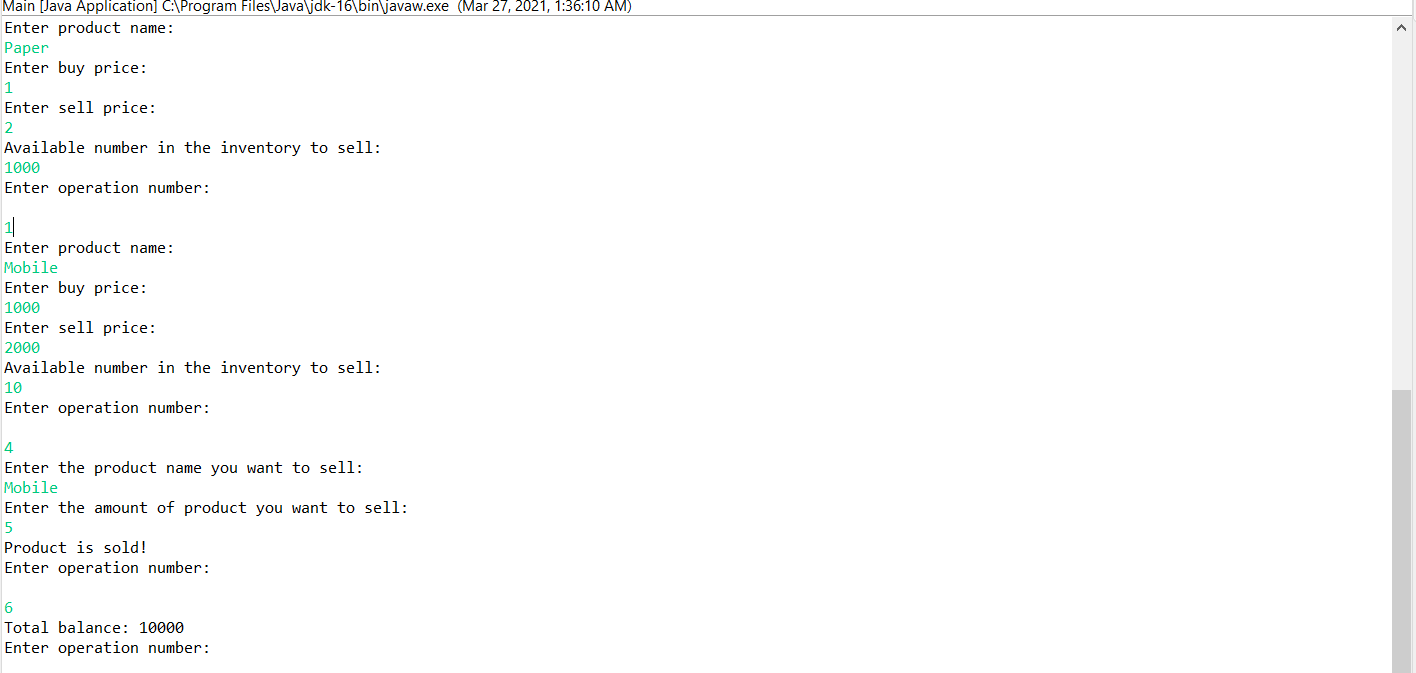
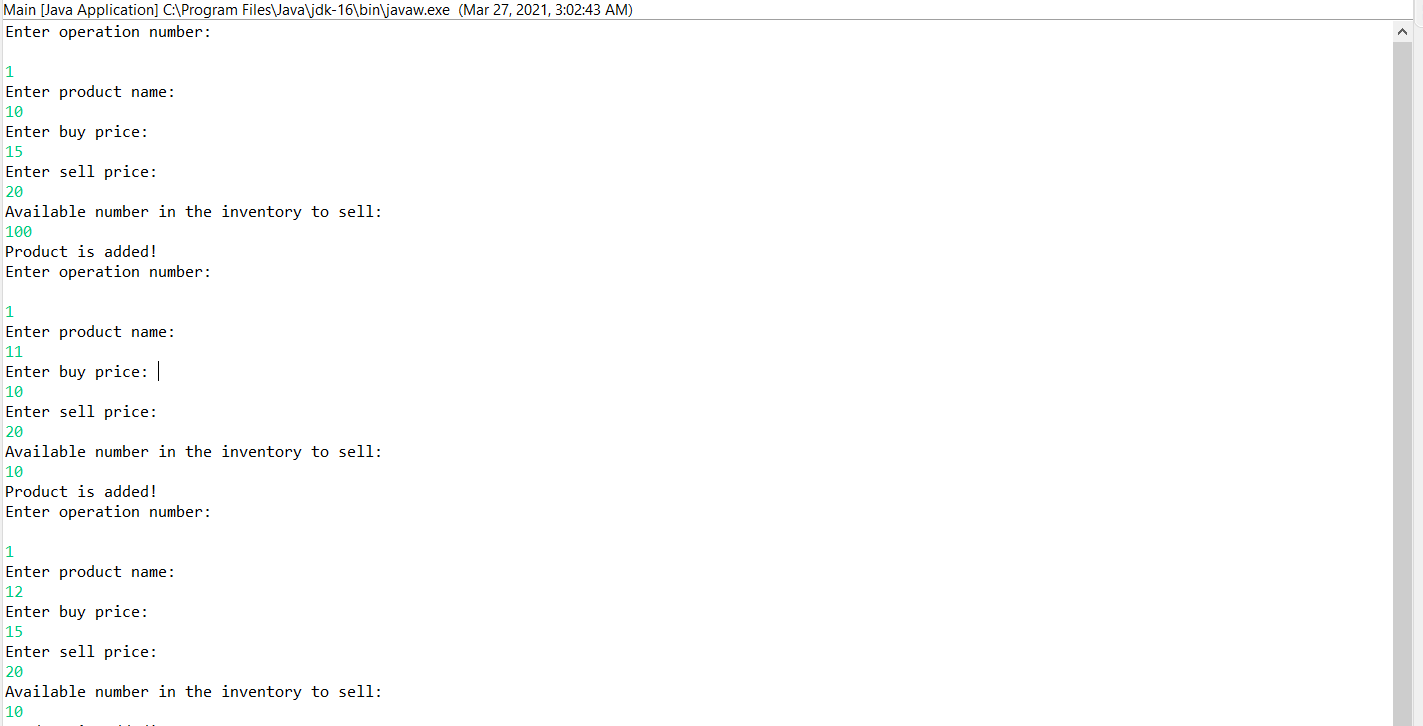
admin

Changed region(s): [[0.0, 0.0, 1.0, 1.0], [0.1554, 0.2184, 0.2486, 0.2496], [0.0621, 0.9985, 0.1243, 1.0]]

diff --git a/test/ProductList.java b/test/ProductList.java
@@ -10,7 +10,7 @@ public class ProductList {
 		products.clear();
 	}
 	
-	public void addProduct(String name, int buy, int sell, int availableNumber) {
+	public void addProduct(int name, int buy, int sell, int availableNumber) {
 		/// Adds new product to the product list
 		
 		Product newProduct = new Product(name, buy, sell, availableNumber);
@@ -31,19 +31,19 @@ public class ProductList {
 	}
 	*/
 	
-	public boolean searchProduct(String name) {
+	public boolean searchProduct(int name) {
 		/// check if a product already exists or not
 		
 		for(int i = 0 ; i < products.size(); ++i) {
 			Product p = products.get(i);
-			if(p.getProductName().equals(name)) {
+			if(p.getProductName() == name) {
 				return true;
 			}
 		}
 		return false;
 	} 
 	
-	public void deleteProduct(String name) {
+	public void deleteProduct(int name) {
 		// Deletes a product by searching it by name from the product list
 		if(products.size() == 0) {
 			System.out.println("Product list is already empty! Can't delete the product!");
@@ -52,8 +52,7 @@ public class ProductList {
 		int index = -1;
 		for(int i = 0 ; i < products.size(); i++) {
 			Product p = products.get(i);
-			String productName = p.getProductName();
-			if(productName.equals(name)) {
+			if(p.getProductName() == name) {
 				index = i;
 				break;
 			}
@@ -68,11 +67,11 @@ public class ProductList {
 	}
 	
 	
-	public void buyProduct(String name, int count) {
+	public void buyProduct(int name, int count) {
 		/// when a product is bought, the amount is added to the inventory
 		for(int i = 0 ; i < products.size() ; ++i) {
 			Product p = products.get(i);
-			if(p.getProductName().equals(name)) {
+			if(p.getProductName() == name) {
 				p.addProduct(count); /// adding instances to the existing product
 				products.set(i, p); /// updating the product list
 				
@@ -84,10 +83,10 @@ public class ProductList {
 		}
 	}
 	
-	public void sellProduct(String name, int count) {
+	public void sellProduct(int name, int count) {
 		for(int i = 0 ; i < products.size() ; ++i) {
 			Product p = products.get(i);
-			if(p.getProductName().equals(name)) { /// searching for that product
+			if(p.getProductName() == name) { /// searching for that product
 				if(count > p.piecesAvailable()) { 
 					/// if there is not enough product to sell.. the we can't sell
 					System.out.println("Not enough item to sell!\n");

diff --git a/test/Shop.java b/test/Shop.java
@@ -17,7 +17,7 @@ public class Shop {
 				/// Add product
 				
 				System.out.println("Enter product name: ");
-				String name = sc.next();
+				int name = sc.nextInt();
 				System.out.println("Enter buy price: ");
 				int buy = sc.nextInt();
 				System.out.println("Enter sell price: ");
@@ -28,19 +28,21 @@ public class Shop {
 				
 				list.addProduct(name, buy, sell, count);
 				
+				System.out.println("Product is added!");
+				
 			}
 			else if(choice == 2) {
 				// Delete a Product
 				
 				System.out.println("Enter the name of the product that you want to delete: ");
-				String name = sc.next();
+				int name = sc.nextInt();
 				list.deleteProduct(name);
 			}
 			else if(choice == 3) {
 				// Buy product
 				
 				System.out.println("Enter the product name you want to buy: ");
-				String name = sc.next();
+				int name = sc.nextInt();
 				System.out.println("Enter the amount of product you want to buy: ");
 				int amount = sc.nextInt();
 				
@@ -51,7 +53,7 @@ public class Shop {
 				/// Sell product
 				
 				System.out.println("Enter the product name you want to sell: ");
-				String name = sc.next();
+				int name = sc.nextInt();
 				System.out.println("Enter the amount of product you want to sell: ");
 				int amount = sc.nextInt();
 				

diff --git a/test/Product.java b/test/Product.java
@@ -4,10 +4,9 @@ import java.util.HashMap;
 
 
 public class Product {
-	private String name;
-	private int buyPrice, sellPrice, availablePieces, profit;
+	private int name, buyPrice, sellPrice, availablePieces, profit;
 
-	Product(String name, int buyPrice, int sellPrice, int availablePieces) {
+	Product(int name, int buyPrice, int sellPrice, int availablePieces) {
 		/// constructor to set product information
 		this.buyPrice = buyPrice;
 		this.sellPrice = sellPrice;
@@ -53,7 +52,7 @@ public class Product {
 		availablePieces -= count;
 	}
 	
-	public String getProductName() {
+	public int getProductName() {
 		/// returns the name of the product
 		return name;
 	}
@@ -63,7 +62,7 @@ public class Product {
 		/// A getter method used to return the whole product information
 	
 		HashMap<String, String> product = new HashMap<String, String>();
-		product.put("Name", name);
+		product.put("Name", name + "");
 		product.put("Buy", buyPrice + "");
 		product.put("Sell", sellPrice + "");
 		product.put("Count", availablePieces + "");

diff --git a/test/Main.java b/test/Main.java
@@ -3,12 +3,6 @@ package test;
 public class Main {
 
 	public static void main(String[] args) {
-		///System.out.println("Debug");
-		///Product p = new Product("A", 10, 11, 1);
-		//HashMap <String, String> ans = p.productInfo();
-		//for(String key : ans.keySet()) {
-	//		System.out.println(key + "  ---  " + ans.get(key));
-	//	}
 		
 		Shop shop = new Shop(); /// shop is created
 		shop.start(); // starts the execution of the program
